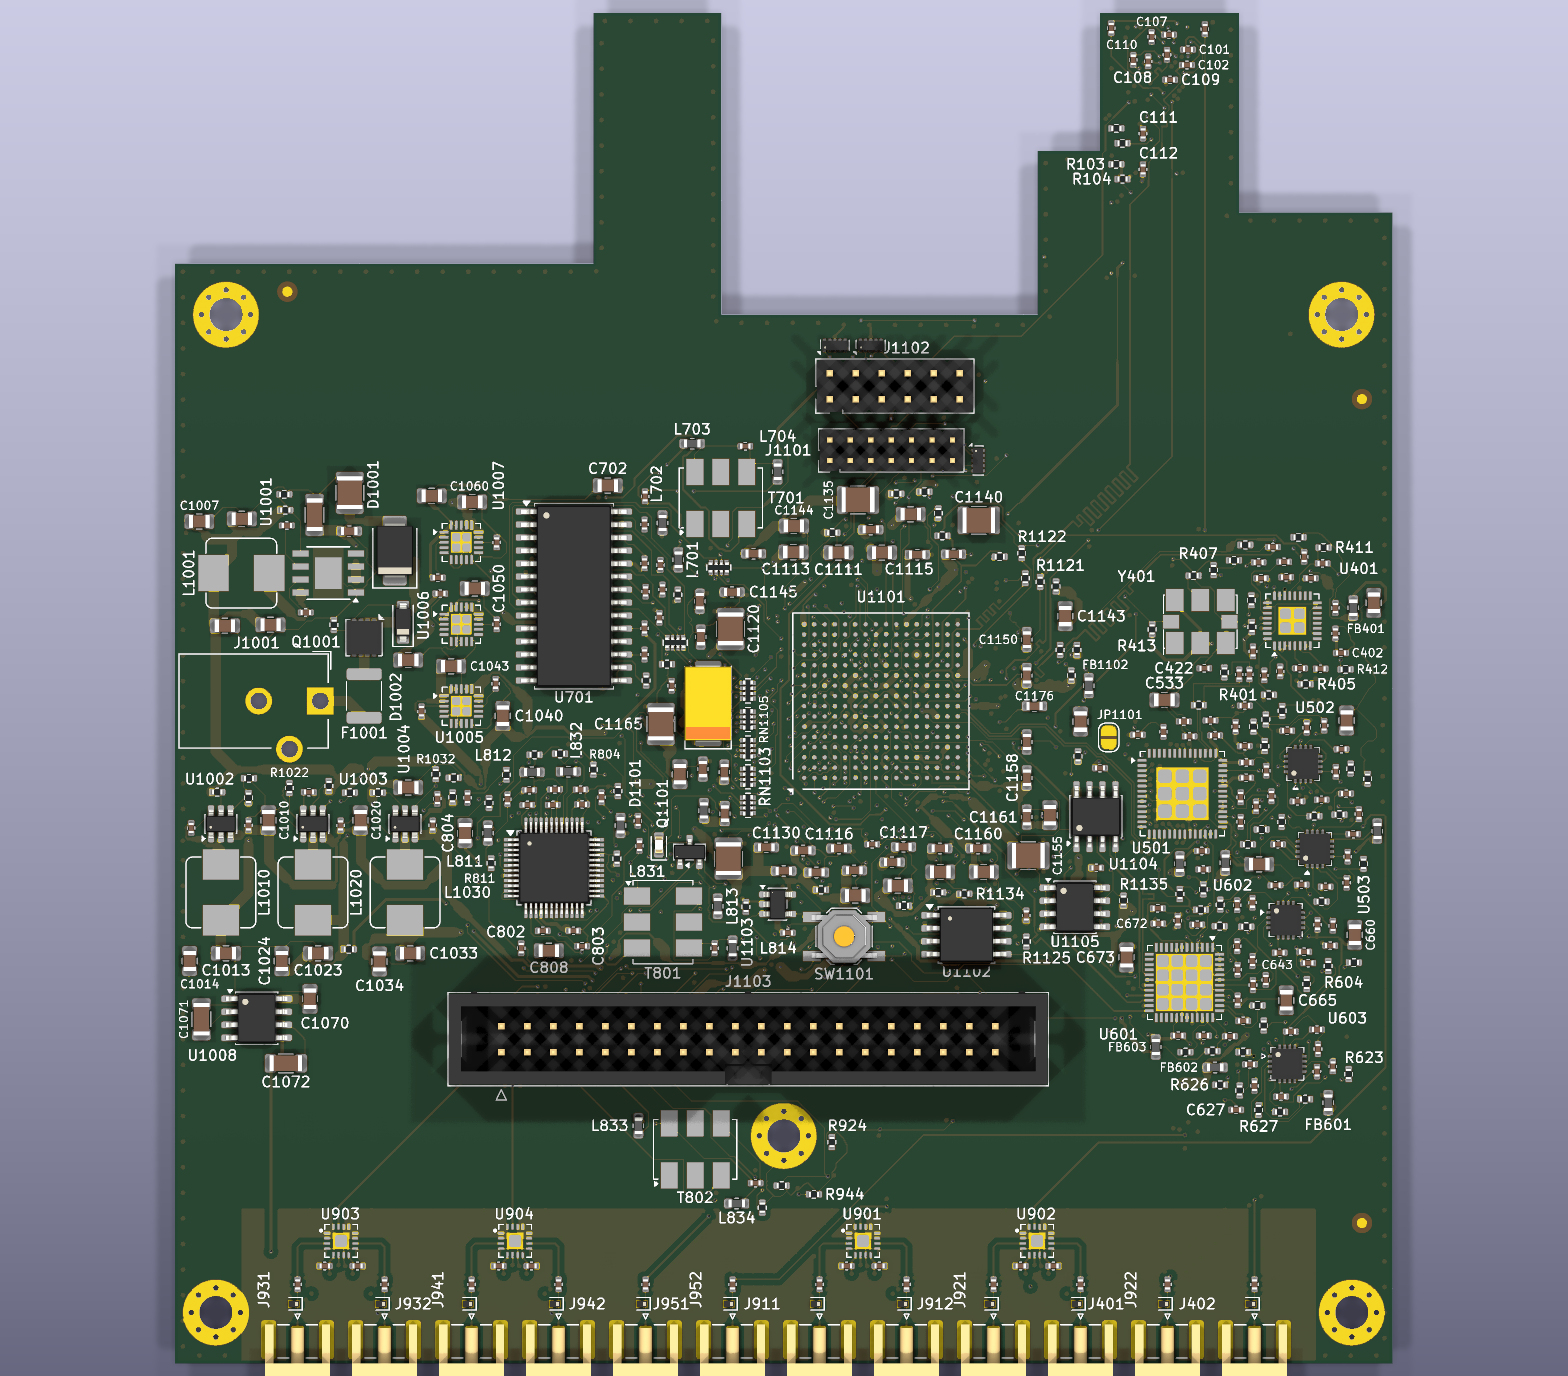
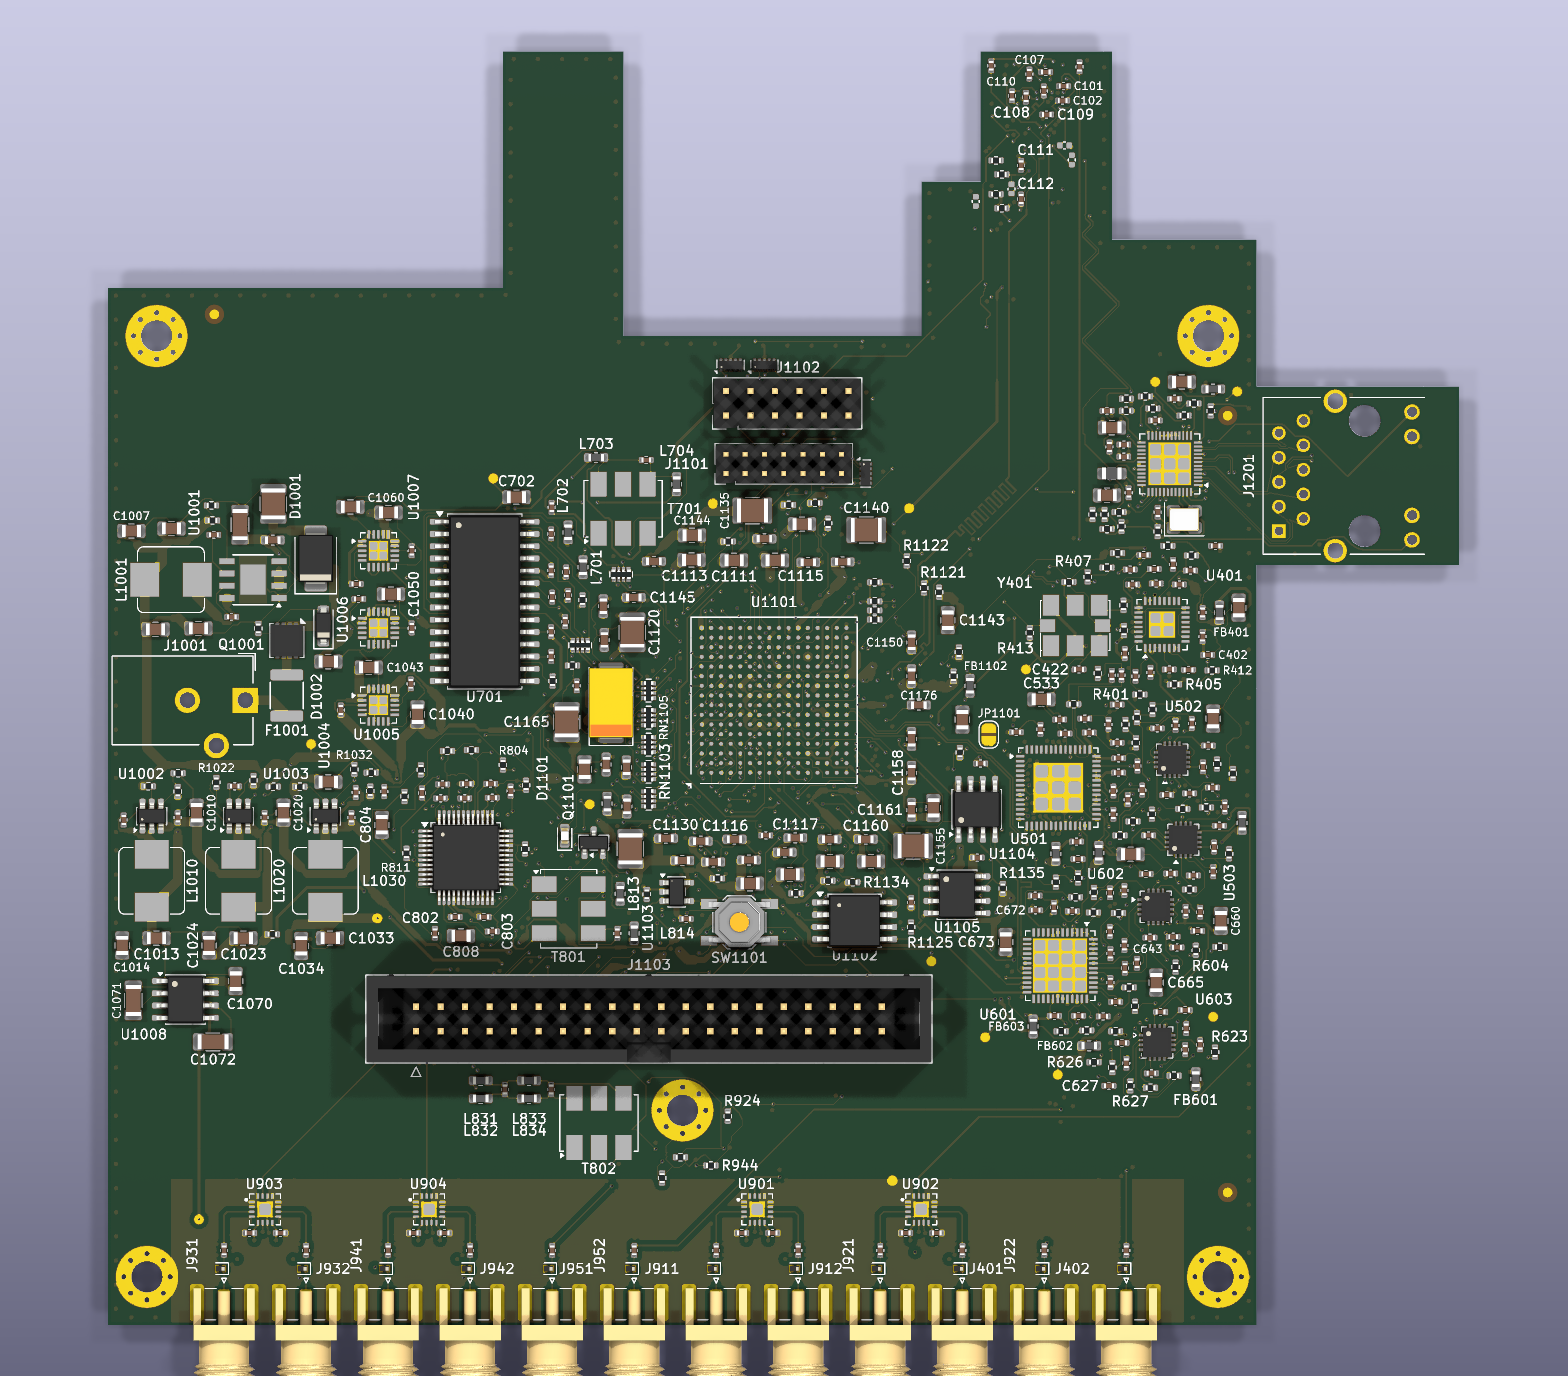
Board renders regenerated with the Ethernet tab (the KiCad library models, as before 80d4fe9); eye openings of the Ethernet option's branches as a plot (docs/sim/eth_branches.png, SIGNAL_INTEGRITY 9.7 and README)

diff --git a/_work/sim_eth_branches.py b/_work/sim_eth_branches.py
@@ -1,0 +1,33 @@
+"""docs/sim/eth_branches.png: eye openings of the two link pairs the Ethernet option shares, as simulated
+(SIGNAL_INTEGRITY 9.7, stubsim.py / lvds_eye.py at 1.25 Gb/s). Numbers typed from that section."""
+import matplotlib; matplotlib.use("Agg")
+import matplotlib.pyplot as plt
+rows = [  # label, low, high, kept
+    ("LINK_TX_D0, no branch", 518, 518, False),
+    ("LINK_TX_D0, C1218 beside R101 (6.6 mm branch)", 461, 461, False),
+    ("LINK_TX_D0, C1218 on the bottom face", 489, 499, False),
+    ("LINK_TX_D0, C1218 on top below the notch (built)", 477, 484, True),
+    ("LINK_RX_D0, no branch", 609, 609, False),
+    ("LINK_RX_D0, C1220/C1221 branches (built)", 601, 607, True),
+    ("Ethernet mode: FPGA to PHY", 350, 350, True),
+    ("Ethernet mode: PHY to FPGA", 637, 637, True),
+]
+INK, MUTED, ACC, NEU, GRID = "#1f2328", "#59636e", "#2f6fb3", "#b8c0c8", "#e6e9ec"
+fig, ax = plt.subplots(figsize=(9.5, 4.6), dpi=150)
+for i, (lab, lo, hi, kept) in enumerate(rows):
+    y = len(rows) - 1 - i - (0.5 if i >= 4 else 0) - (0.5 if i >= 6 else 0)
+    mid = (lo + hi) / 2
+    ax.barh(y, mid, height=0.62, color=ACC if kept else NEU, edgecolor="white", linewidth=2)
+    if hi > lo:
+        ax.errorbar(mid, y, xerr=[[mid - lo], [hi - mid]], fmt="none", ecolor=INK, elinewidth=1.2, capsize=3)
+    ax.text(hi + 8, y, f"{lo}" if hi == lo else f"{lo}-{hi}", va="center", fontsize=9, color=INK)
+    ax.text(-8, y, lab, va="center", ha="right", fontsize=9, color=INK if kept else MUTED)
+ax.axvline(200, color=MUTED, lw=1, ls=(0, (4, 3)))
+ax.text(206, 7.62, "receiver needs 200 mV (±100 mV threshold)", fontsize=8, color=MUTED, va="center")
+ax.set_xlim(0, 700); ax.set_ylim(-1.5, 7.95); ax.set_yticks([]); ax.set_xlabel("Eye opening at 1.25 Gb/s, mV", color=INK, fontsize=9)
+for s in ("top", "right", "left"): ax.spines[s].set_visible(False)
+ax.spines["bottom"].set_color(MUTED); ax.tick_params(colors=MUTED, labelsize=8)
+ax.xaxis.grid(True, color=GRID, lw=0.8); ax.set_axisbelow(True)
+ax.set_title("The Ethernet option's cost to the IAS1 link, and its own paths (blue: as built)", fontsize=10, color=INK, loc="left", x=-0.62)
+fig.subplots_adjust(left=0.40, right=0.97, top=0.9, bottom=0.13)
+fig.savefig("/mnt/d/Repos/kv260-ias2rf/docs/sim/eth_branches.png")

diff --git a/docs/SIGNAL_INTEGRITY.md b/docs/SIGNAL_INTEGRITY.md
@@ -1015,7 +1015,9 @@ is 21.7 ps shorter. ETH_SGRX_PHY_P makes it up with a 3.2 mm bump on L8 (PHY-sid
 end to end, PHY to FPGA, the legs match within 1 ps in this model (vias not counted).
 
 In Ethernet mode the paths through the PHY's own pairs measure 350 mV / 50 ps (FPGA to PHY) and
-637 mV / 53 ps (PHY to FPGA). The PHY's input pair runs beside LINK_RX_D1_N on L1 for 5.2 mm at
+637 mV / 53 ps (PHY to FPGA).
+
+![Eye openings with the Ethernet option's branches](sim/eth_branches.png) The PHY's input pair runs beside LINK_RX_D1_N on L1 for 5.2 mm at
 0.17 mm; the gateware should hold LINK_RX_D1 static in Ethernet mode.
 
 ## 10. How it was checked

diff --git a/README.md b/README.md
@@ -343,6 +343,12 @@ side, and the common mode through the layer change
 
 ![The other 3-D sub-models](docs/sim/rev05_3d.png)
 
+**The Ethernet option** shares two link pairs through unfitted capacitors: what their branches cost
+the IAS1 link, where C1218 went, and the Ethernet paths themselves
+([SIGNAL_INTEGRITY §9.7](docs/SIGNAL_INTEGRITY.md)).
+
+![Eye openings with the Ethernet option's branches](docs/sim/eth_branches.png)
+
 ---
 
 ## Mounted on the KV260
